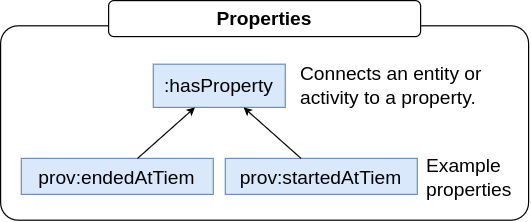
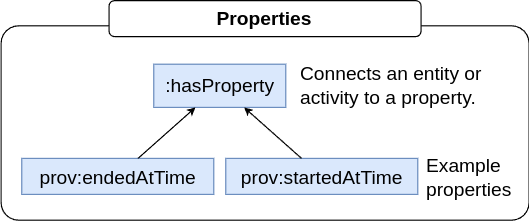
Corrected figures and added reference to Zaccarini

diff --git a/README.md b/README.md
@@ -107,6 +107,7 @@ The material process is driven by an agent (`a`), who's temporal part (`a1`) is 
 ### Enhanced parthood and causal formalism
 To formally describe workflows correctly, such as the above material process, the PINK Annotation Schema includes formalised categorisations of parthood and causal relations, shown in the figures below.
 These categorisations incorporate parthood and causal relations from [Dublin Core] and [PROV-O] and give them enhanced semantic meaning.
+It is based on the mereocausal theory by [Zaccarini *et. al.*], but simplified and adapted to the needs of PINK.
 
 ![Parthood relations](docs/figs/parthood-relations.png)
 
@@ -158,7 +159,7 @@ Since we don't know whether the workflow actually would be executed, we can't cr
 Hence, description of what can happen must be done at class level (TBox-level).
 
 Another important difference from the provenance description above, is that while provenance places the activity in the centre, PINK places the *method* in centre when describing something that can happen.
-A method is data that describes how to perform an activity, like what type of activity will be performed, what type of input it takes, what type of output it produces, is there an API for performing the activity, etc...
+A method is a subclass of data that describes how to perform an activity, like what type of activity will be performed, what type of input it takes, what type of output it produces, is there an API for performing the activity, etc...
 The figure below shows how a method relates to an activity and its input and output.
 
 ![Method](docs/figs/method.png)
@@ -190,6 +191,7 @@ For example, the above declaration of a computation could provided as follows:
 
 [PINK classes]: ./docs/classes.md
 [pink_annotation_schema.ttl]: ./pink_annotation_schema.ttl
+[Zaccarini *et. al.*]: https://ebooks.iospress.nl/doi/10.3233/FAIA231120
 [semiotic]: https://plato.stanford.edu/entries/peirce-semiotics/
 [DCAT-AP 3.0.1]: https://semiceu.github.io/DCAT-AP/releases/3.0.1/
 [DCAT]: https://www.w3.org/TR/vocab-dcat-3/
